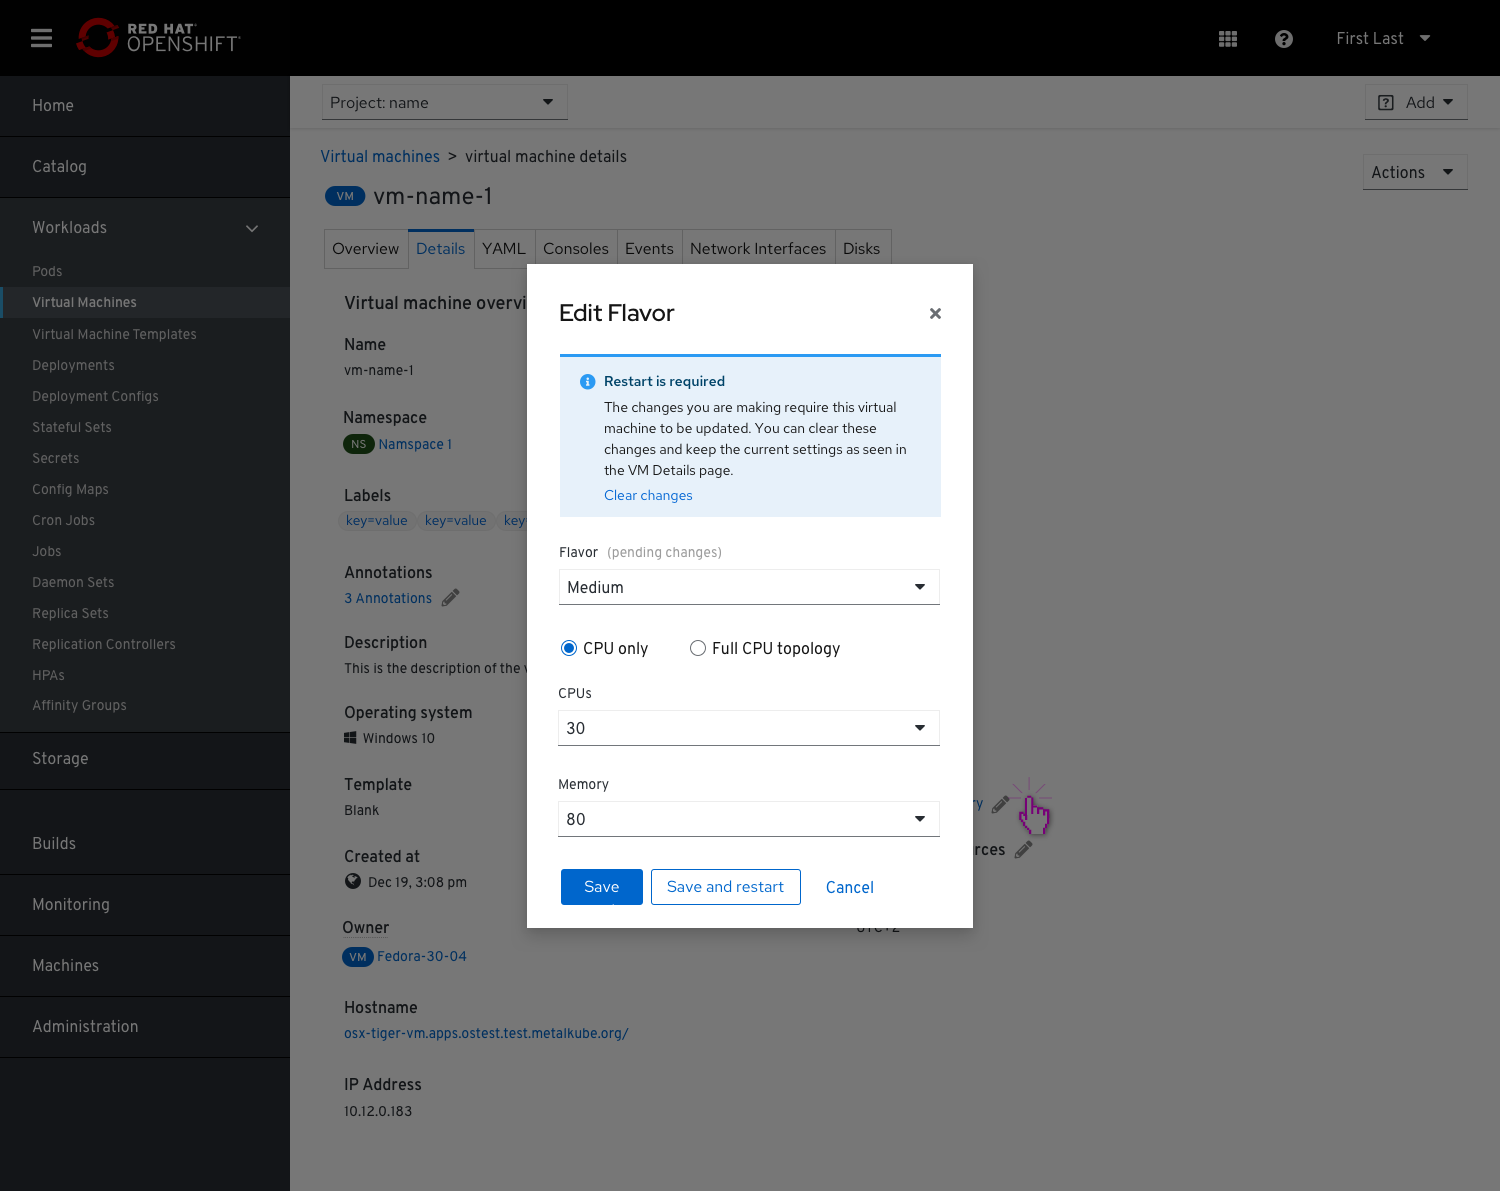
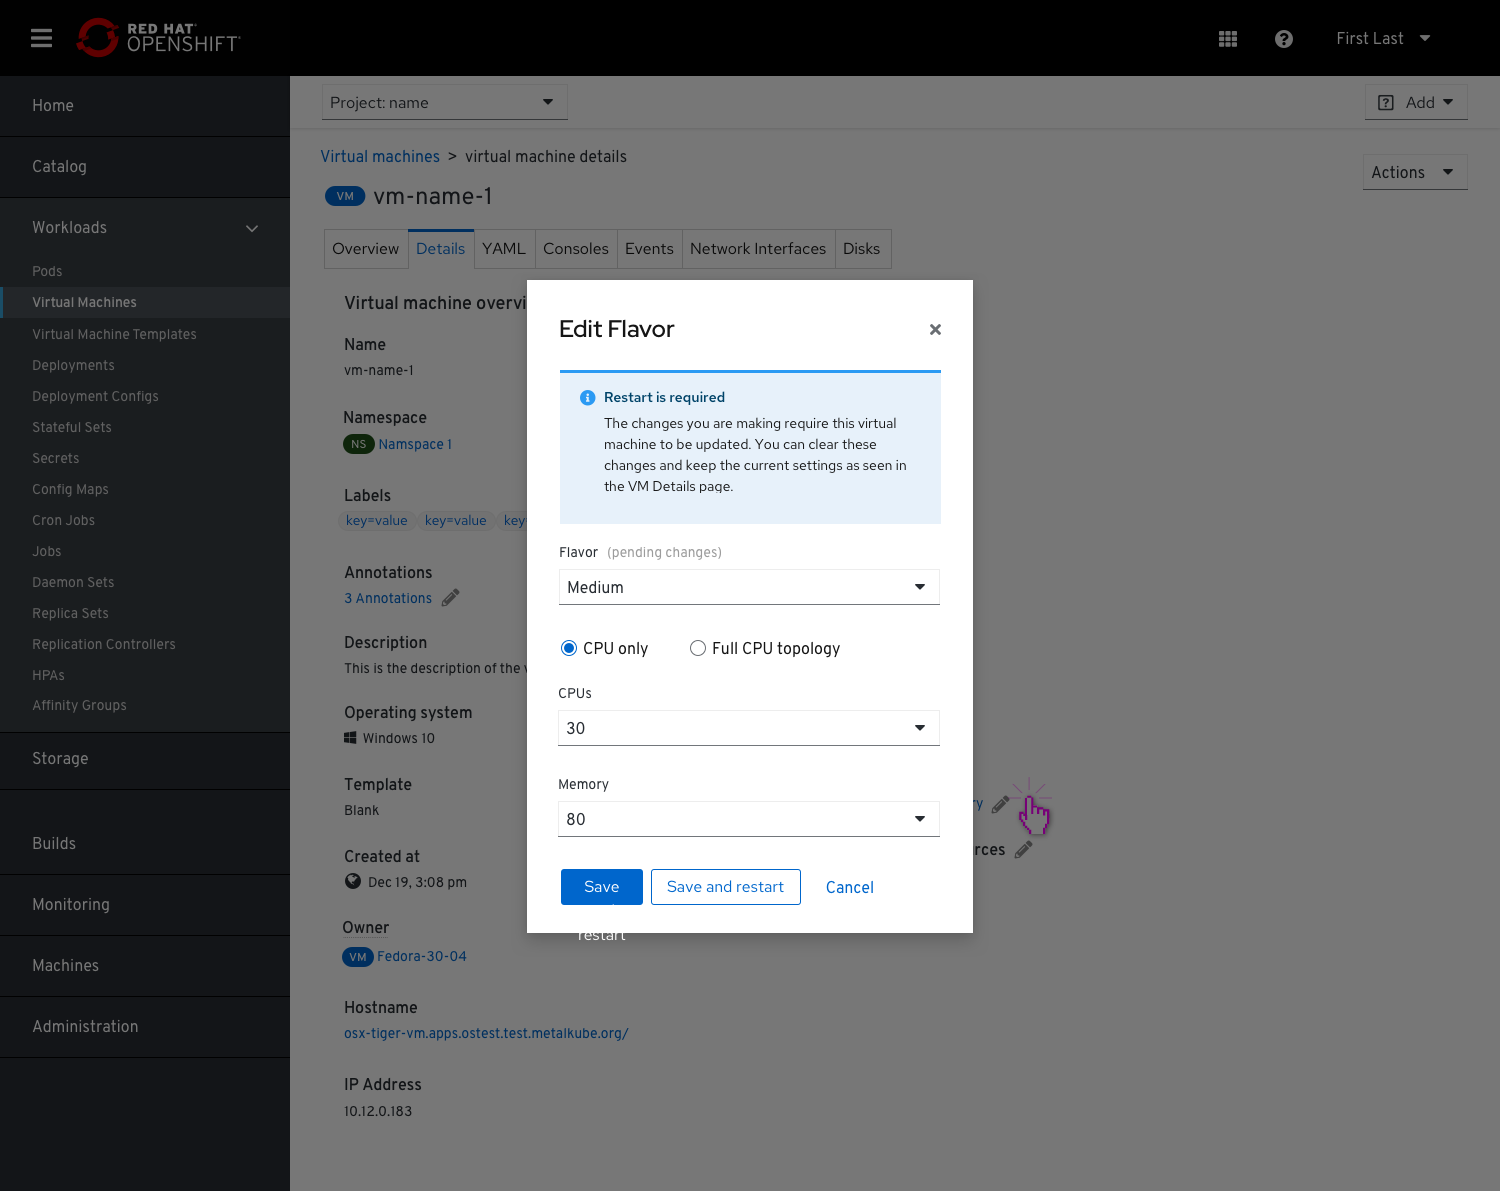
removing clear all action from notification modal

Changed region(s): [[0.3373, 0.2175, 0.644, 0.4349], [0.368, 0.7767, 0.644, 0.8077]]

diff --git a/designs/virtualization/4.6/Next-run-configuration/Next-run-configuration.md b/designs/virtualization/4.6/Next-run-configuration/Next-run-configuration.md
@@ -11,7 +11,7 @@ As a user makes changes to a running Virtual machine they will need to wait for 
 When a user clicks to edit/ update one of the attributes (f.e. Flavor) it will open a modal with an alert notification letting the user know that the VM must be restarted in order to see the changes applied. The alert will persist until they restart the VM.
 This alert will not appear until the user has made changes, so the user will then know that they will need to restart.
 
-In general, users will be able to clear the changes and keep what they had, but at the very first time the modal is opened in case the user hasn't saved any changes yet, the 'Clear changes' button will not be shown.
+In general, users will be able to clear the changes and keep what they had, but when the first time the modal is opened, in case the user hasn't saved any changes yet, the 'Clear changes' button will not be shown.
 
 To avoid confusion users will be able to view the current settings in The VM Details page.
 
